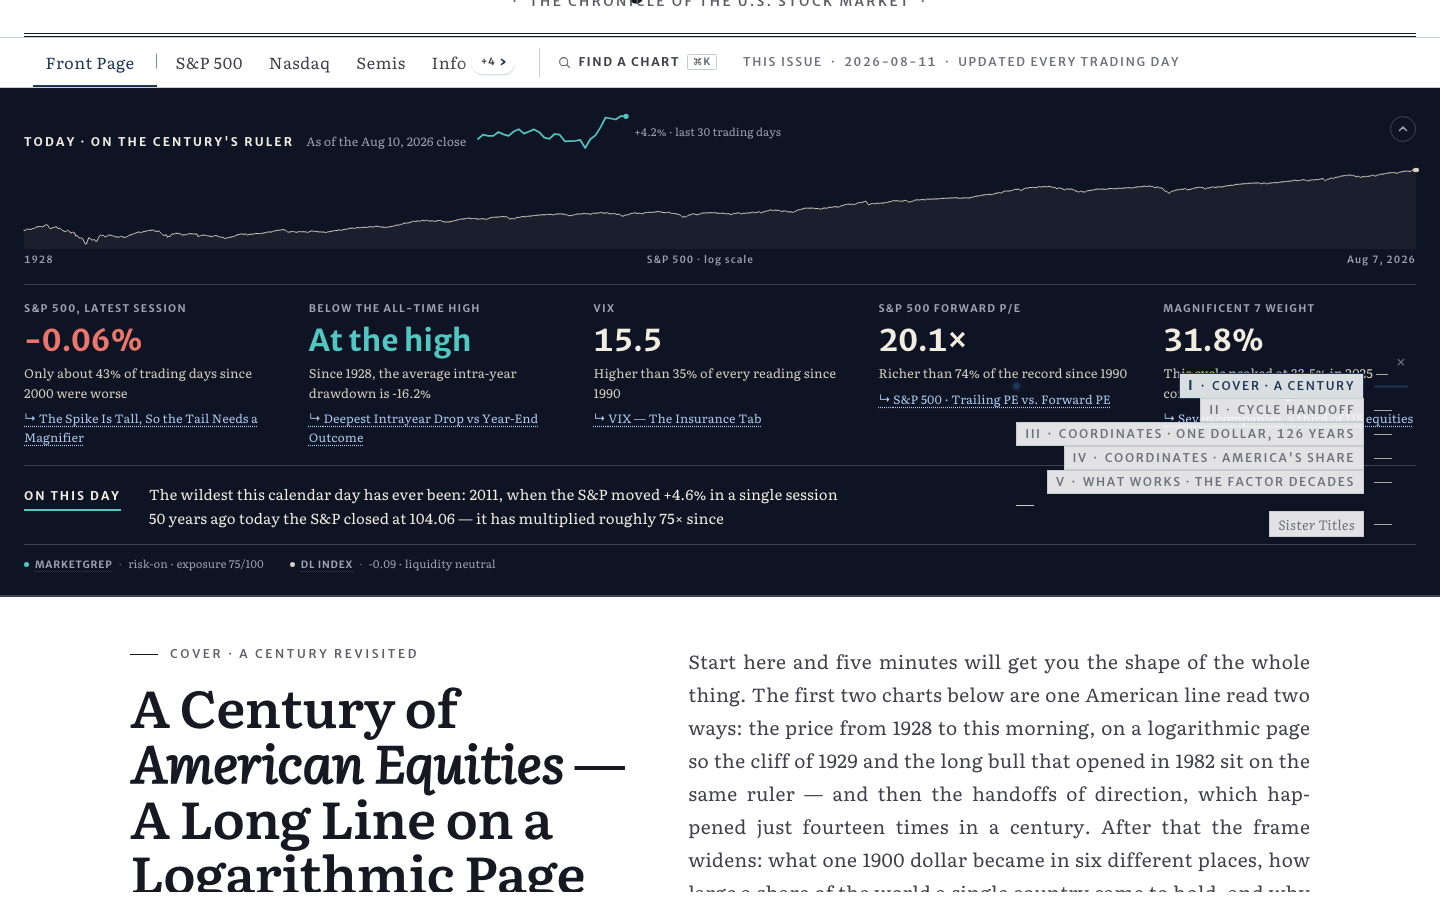
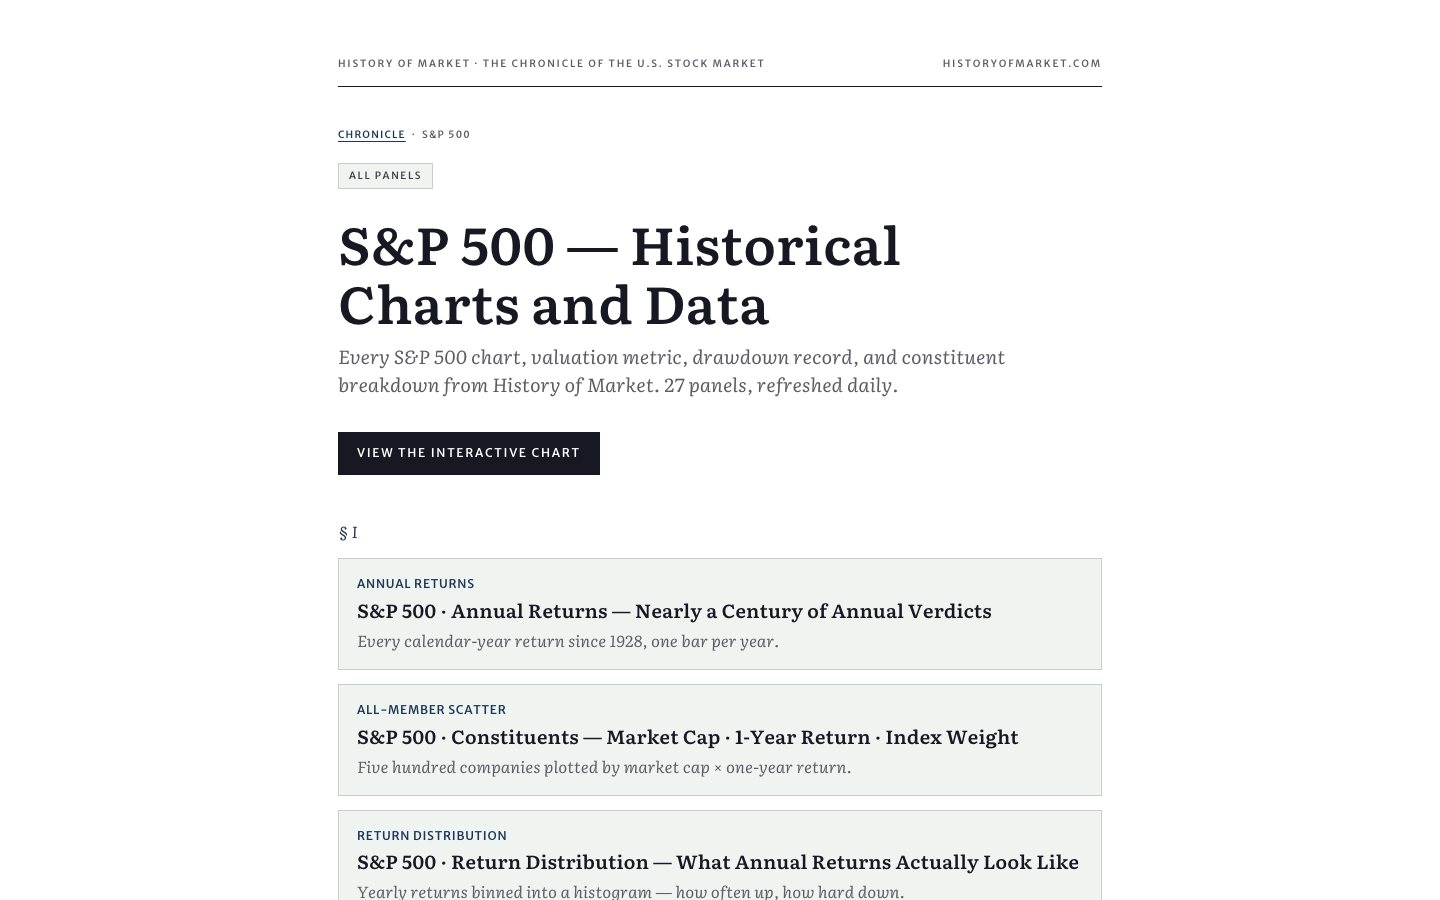
data(sites): refresh extracted style records

diff --git a/sites/codex-resets-com/STYLE-GUIDE.md b/sites/codex-resets-com/STYLE-GUIDE.md
@@ -3,7 +3,7 @@
 ## 风格方向
 主风格：Neo-Brutalism · 次风格：Playful-Illustrative
 气质词：厚实 / 俏皮 / 温暖 / 直接
-温暖奶油纸色承托厚重墨色与高饱和橙红，形成轻松鲜明的新粗野主义气质。硬边描线、清晰偏移阴影、适度圆角与圆润粗体共同强化直接而有触感的视觉表达。
+温暖奶油纸色与深墨色建立厚实清晰的基础，暖黄、橙红、粉和浅蓝以小面积并置，形成轻松鲜明的新粗野主义气质。硬边描线、偏移阴影、柔和圆角与圆润粗体共同带来直接而有触感的视觉表达。
 
 ## 语义色彩
 | 用途 | 色值 | 使用方式 |
@@ -17,29 +17,29 @@
 
 ## 字体系统
 - 展示文字："Baloo 2", "Arial Rounded MT Bold", system-ui, sans-serif · 68px / 800 / 1.05 · 字距 -1.36px
-- 正文："Baloo 2", "Arial Rounded MT Bold", system-ui, sans-serif · 15px / 700 / 1.1 · 字距 0px
+- 正文："Baloo 2", "Arial Rounded MT Bold", system-ui, sans-serif · 18px / 700 / 1.35 · 字距 0px
 - 元信息：ui-monospace, "SF Mono", "Cascadia Code", Menlo, Consolas, monospace · 8px / 700 / 1.55 · 字距 0.96px
 - 字体关系：统一字体家族，以字号与字重建立层级
-- 对比：高对比。字阶范围 17–68px。
-- Lead：17px / 400 / 1.55
-- H4：24px / 800 / 1.55
-- H3：30px / 700 / 1.1
+- 对比：高对比。字阶范围 28–68px。
+- H5：28px / 800 / 1.12
+- H4：30px / 700 / 1.1
+- H3：33px / 800 / 0.94
 - H2：36px / 800 / 1.05
-- H1：68px / 800 / 1.05
+- H1：68px / 800 / 0.95
 
 ## 复合视觉语法
-- 色彩模式：浅色基底；背景与承载面分层，中性色占主导；强调色少量点缀。
-- 描边：细线与强调描边并用，1px / 2px solid。
-- 表面：背景与承载面分层，中性色占主导。
+- 色彩模式：浅色基底；奶油中性色为底，暖黄、橙红、粉与浅蓝分区点缀；暖黄承担主要强调，其他明快色小面积并置。
+- 描边：强调描边，1px / 2px solid。
+- 表面：奶油纸面与暖白承载面依靠墨色边界分层。
 - 层次：硬质偏移阴影。
 - 形态：柔和圆角。
-- 间距节奏：适中节奏。
-- 元素特征：统一字体层级 / 细线与强调描边并用 / 偏移硬阴影 / 浅色基底 / 分层表面 / 柔和圆角。
+- 间距节奏：紧凑节奏。
+- 元素特征：统一字体层级 / 强调描边 / 偏移硬阴影 / 浅色基底 / 分层表面 / 柔和圆角。
 
 ## 间距与形态
-- 间距基准：4px；整体密度：适中。
-- 间距阶梯：4px / 6px / 8px / 9px / 14px / 16px / 17px / 18px。
-- 圆角：偏圆润（3px / 10px / 14px）。
+- 间距基准：4px；整体密度：紧凑。
+- 间距阶梯：2px / 3px / 4px / 6px / 7px / 8px / 9px / 10px。
+- 圆角：偏圆润（3px / 12px / 14px）。
 - 阴影：有，rgb(38, 32, 26) 3px 3px 0px 0px。
 
 ## CSS
@@ -47,7 +47,7 @@
 :root {
   --tk-font-sans: "Baloo 2", "Arial Rounded MT Bold", system-ui, sans-serif;
   --tk-font-display: "Baloo 2", "Arial Rounded MT Bold", system-ui, sans-serif;
-  --tk-radius: 10px;
+  --tk-radius: 12px;
   --tk-shadow: rgb(38, 32, 26) 3px 3px 0px 0px;
   --tk-space: 4px;
   --tk-bg: #fff4dd;

diff --git a/sites/historyofmarket-com/STYLE-GUIDE.md b/sites/historyofmarket-com/STYLE-GUIDE.md
@@ -3,7 +3,7 @@
 ## 风格方向
 主风格：Editorial · 次风格：Minimalism
 气质词：刊物感 / 严谨 / 克制 / 档案气质 / 纸墨分明
-以冷白纸面、近黑墨色与细发丝线建立严谨的金融刊物气质，高对比衬线字让内容具有历史档案般的分量。形态保持锐利克制，层次主要依靠明度、字重与疏密变化，强调色也回归稳定墨色。
+冷白纸面、近黑墨色与深海军蓝点缀共同形成严谨的金融刊物气质，高对比衬线字体带来历史档案般的分量。细线、近直角形态与紧凑节奏保持克制，层次主要依靠明度、字重和留白建立。
 
 ## 语义色彩
 | 用途 | 色值 | 使用方式 |
@@ -12,7 +12,7 @@
 | 表面 | #f0f4f1 | 内容承载面或层次区分 |
 | 正文 | #181822 | 主要文字与关键信息 |
 | 次要文字 | #5c5c65 | 辅助信息、说明与元数据 |
-| 强调 | #52c6c0 | 少量用于关键操作、链接或注意点 |
+| 强调 | #1f3656 | 少量用于关键操作、链接或注意点 |
 | 边框 | #c6cecd | 分隔、描边与结构边界 |
 
 ## 字体系统
@@ -31,16 +31,16 @@
 - 色彩模式：浅色基底；背景与承载面分层，中性色占主导；强调色少量点缀。
 - 描边：细线与强调描边并用，1px / 2px solid。
 - 表面：背景与承载面分层，中性色占主导。
-- 层次：柔和扩散阴影。
+- 层次：平面，无外部投影。
 - 形态：克制小圆角。
 - 间距节奏：紧凑节奏。
-- 元素特征：字体角色对照 / 细线与强调描边并用 / 柔和扩散层次 / 浅色基底 / 分层表面 / 克制小圆角。
+- 元素特征：字体角色对照 / 细线与强调描边并用 / 浅色基底 / 分层表面 / 克制小圆角。
 
 ## 间距与形态
 - 间距基准：4px；整体密度：紧凑。
 - 间距阶梯：2px / 3px / 4px / 5px / 6px / 7px / 8px / 10px。
 - 圆角：较克制（2px / 2px / 2px）。
-- 阴影：有，rgb(255, 255, 255) -8px 0px 12px -4px, rgb(198, 206, 205) 0px 1px 0px 0px。
+- 阴影：无。
 
 ## CSS
 ```css
@@ -48,13 +48,13 @@
   --tk-font-sans: "Literata HOM", "PingFang SC", "Microsoft YaHei", "Hiragino Sans GB", "Noto Sans SC", "Heiti SC", system-ui, sans-serif;
   --tk-font-display: "HOM Nameplate Lg", Georgia, serif;
   --tk-radius: 2px;
-  --tk-shadow: rgb(255, 255, 255) -8px 0px 12px -4px, rgb(198, 206, 205) 0px 1px 0px 0px;
+  --tk-shadow: none;
   --tk-space: 4px;
   --tk-bg: #ffffff;
   --tk-surface: #f0f4f1;
   --tk-text: #181822;
   --tk-muted: #5c5c65;
-  --tk-accent: #52c6c0;
+  --tk-accent: #1f3656;
   --tk-border: #c6cecd;
 }
 ```

diff --git a/sites/yeguozi-com/STYLE-GUIDE.md b/sites/yeguozi-com/STYLE-GUIDE.md
@@ -3,7 +3,7 @@
 ## 风格方向
 主风格：Editorial · 次风格：Luxury-Elegant
 气质词：电影感 / 克制典雅 / 高对比 / 哑金点缀
-以深墨黑中性色为基底，用暖白正文、低亮灰辅助信息与少量哑金形成清晰克制的层级。人文衬线字与简洁无衬线字相互平衡，配合细边框、小圆角和轻浅阴影，营造安静典雅的电影编辑气质。
+深墨黑中性色承托暖白正文、低亮灰辅助信息与少量哑金，形成清晰克制的层级。人文衬线字与简洁无衬线字相互平衡，细边框、小圆角和平面表面共同营造安静典雅的电影编辑气质。
 
 ## 语义色彩
 | 用途 | 色值 | 使用方式 |
@@ -31,7 +31,7 @@
 - 色彩模式：深色基底；背景与承载面分层，中性色占主导；强调色少量点缀。
 - 描边：细线与强调描边并用，1px / 2px solid。
 - 表面：背景与承载面分层，中性色占主导。
-- 层次：轻柔层次阴影。
+- 层次：平面，无外部投影。
 - 形态：克制小圆角。
 - 间距节奏：适中节奏。
 - 元素特征：字体角色对照 / 细线与强调描边并用 / 深色基底 / 分层表面 / 克制小圆角。
@@ -40,7 +40,7 @@
 - 间距基准：4px；整体密度：适中。
 - 间距阶梯：2px / 4px / 6px / 10px / 12px / 14px / 16px / 20px。
 - 圆角：较克制（2px / 4px / 6px）。
-- 阴影：有，rgba(0, 0, 0, 0.1) 0px 1px 3px 0px, rgba(0, 0, 0, 0.1) 0px 1px 2px -1px。
+- 阴影：无。
 
 ## CSS
 ```css
@@ -48,7 +48,7 @@
   --tk-font-sans: "Helvetica Neue", Helvetica, "Segoe UI", system-ui, -apple-system, Arial, sans-serif, "PingFang SC", "Microsoft YaHei";
   --tk-font-display: "Cormorant Garamond", "Cormorant Garamond Fallback", "Cormorant Garamond", "Noto Serif SC", "Noto Serif SC Fallback", "Noto Serif SC", "Songti SC", Georgia, serif;
   --tk-radius: 4px;
-  --tk-shadow: rgba(0, 0, 0, 0.1) 0px 1px 3px 0px, rgba(0, 0, 0, 0.1) 0px 1px 2px -1px;
+  --tk-shadow: none;
   --tk-space: 4px;
   --tk-bg: #14181e;
   --tk-surface: #2f343d;
